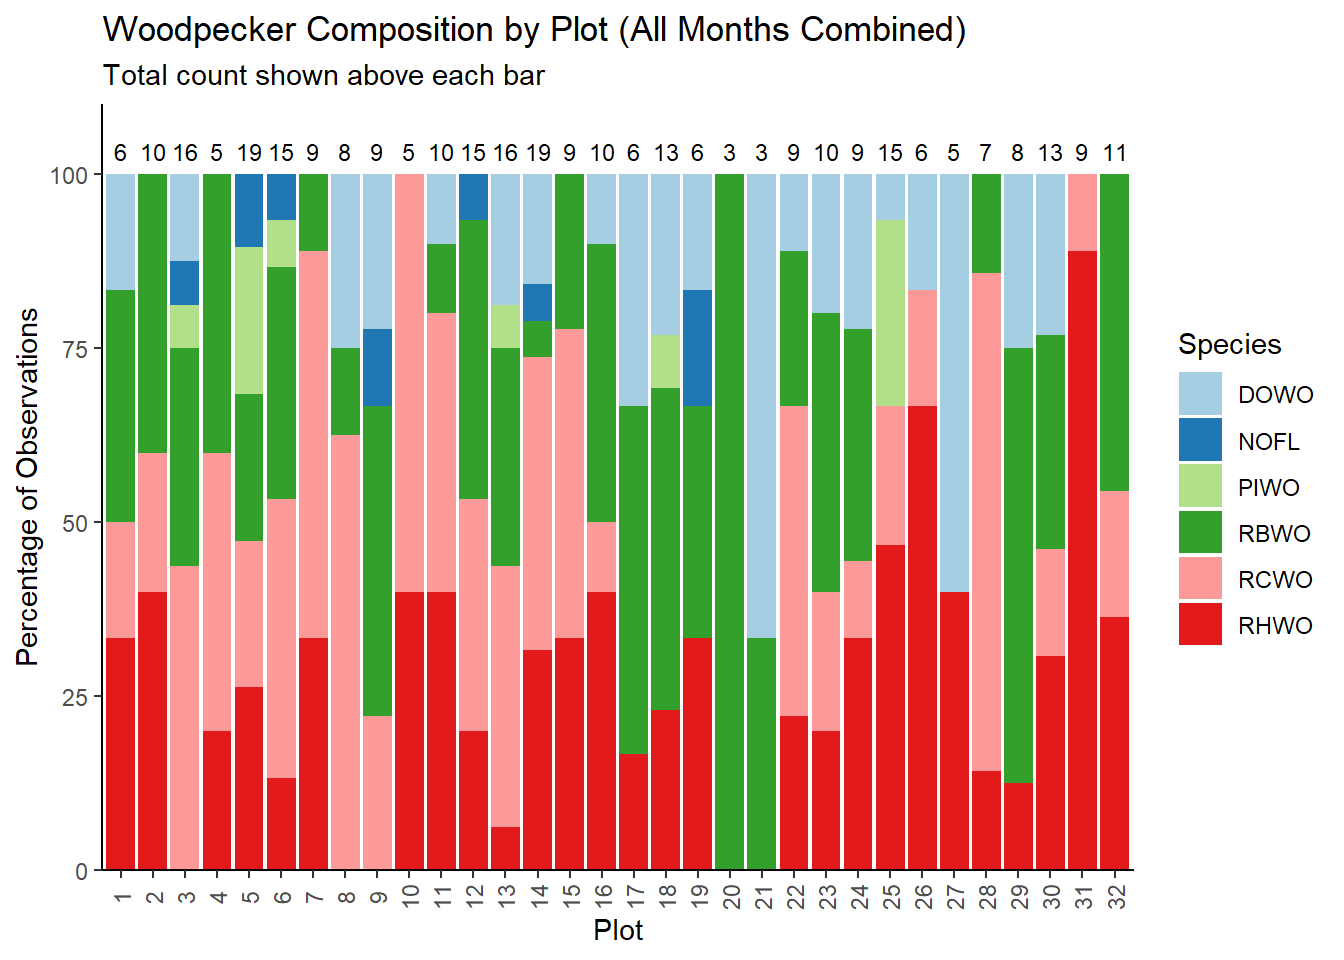
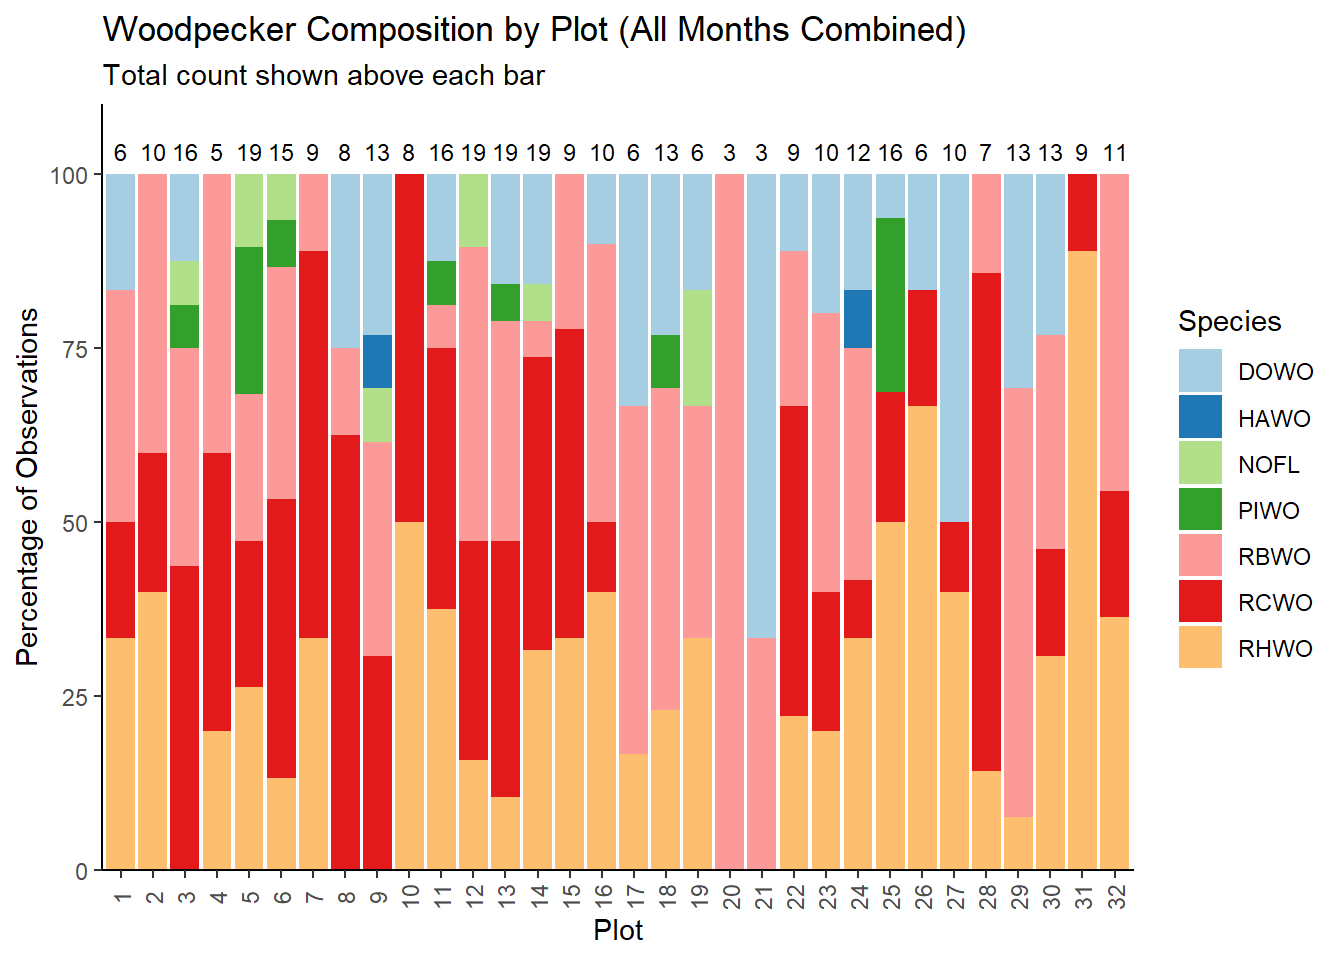
updated obs data

diff --git a/docs/woodpecker_obs.html b/docs/woodpecker_obs.html
@@ -239,7 +239,7 @@ Table: May observations by species and plot
 <h1>June Observations</h1>
 <div class="cell">
 <div class="cell-output cell-output-stdout">
-<pre><code>Plot(s) with no observations include:  2, 4, 9, 11, 12, 17, 19, 20, 24, 28, 29, 31, 32</code></pre>
+<pre><code>Plot(s) with no observations include:  2, 4, 17, 19, 20, 28, 31, 32</code></pre>
 </div>
 </div>
 <div class="cell">
@@ -250,12 +250,13 @@ Table: June observations by species and plot
 
 |Species |  1|  2|  3|  4|  5|  6|  7|  8|  9| 10| 11| 12| 13| 14| 15| 16| 17| 18| 19| 20| 21| 22| 23| 24| 25| 26| 27| 28| 29| 30| 31| 32|
 |:-------|--:|--:|--:|--:|--:|--:|--:|--:|--:|--:|--:|--:|--:|--:|--:|--:|--:|--:|--:|--:|--:|--:|--:|--:|--:|--:|--:|--:|--:|--:|--:|--:|
-|DOWO    |  1|  0|  0|  0|  0|  0|  0|  0|  0|  0|  0|  0|  0|  1|  0|  1|  0|  2|  0|  0|  1|  0|  0|  0|  0|  0|  0|  0|  0|  0|  0|  0|
-|NOFL    |  0|  0|  0|  0|  1|  0|  0|  0|  0|  0|  0|  0|  0|  0|  0|  0|  0|  0|  0|  0|  0|  0|  0|  0|  0|  0|  0|  0|  0|  0|  0|  0|
-|PIWO    |  0|  0|  0|  0|  1|  0|  0|  0|  0|  0|  0|  0|  1|  0|  0|  0|  0|  0|  0|  0|  0|  0|  0|  0|  0|  0|  0|  0|  0|  0|  0|  0|
-|RBWO    |  0|  0|  2|  0|  0|  0|  0|  0|  0|  0|  0|  0|  0|  0|  0|  1|  0|  2|  0|  0|  1|  0|  3|  0|  0|  0|  0|  0|  0|  0|  0|  0|
-|RCWO    |  1|  0|  1|  0|  1|  1|  0|  1|  0|  1|  0|  0|  1|  0|  0|  0|  0|  0|  0|  0|  0|  0|  0|  0|  0|  1|  0|  0|  0|  0|  0|  0|
-|RHWO    |  0|  0|  0|  0|  2|  1|  1|  0|  0|  1|  0|  0|  0|  2|  1|  1|  0|  3|  0|  0|  0|  1|  1|  0|  1|  0|  1|  0|  0|  1|  0|  0|</code></pre>
+|DOWO    |  1|  0|  0|  0|  0|  0|  0|  0|  1|  0|  1|  0|  0|  1|  0|  1|  0|  2|  0|  0|  1|  0|  0|  0|  0|  0|  2|  0|  2|  0|  0|  0|
+|HAWO    |  0|  0|  0|  0|  0|  0|  0|  0|  1|  0|  0|  0|  0|  0|  0|  0|  0|  0|  0|  0|  0|  0|  0|  1|  0|  0|  0|  0|  0|  0|  0|  0|
+|NOFL    |  0|  0|  0|  0|  1|  0|  0|  0|  0|  0|  0|  1|  0|  0|  0|  0|  0|  0|  0|  0|  0|  0|  0|  0|  0|  0|  0|  0|  0|  0|  0|  0|
+|PIWO    |  0|  0|  0|  0|  1|  0|  0|  0|  0|  0|  1|  0|  1|  0|  0|  0|  0|  0|  0|  0|  0|  0|  0|  0|  0|  0|  0|  0|  0|  0|  0|  0|
+|RBWO    |  0|  0|  2|  0|  0|  0|  0|  0|  0|  0|  0|  2|  1|  0|  0|  1|  0|  2|  0|  0|  1|  0|  3|  1|  0|  0|  0|  0|  3|  0|  0|  0|
+|RCWO    |  1|  0|  1|  0|  1|  1|  0|  1|  2|  2|  2|  1|  2|  0|  0|  0|  0|  0|  0|  0|  0|  0|  0|  0|  0|  1|  1|  0|  0|  0|  0|  0|
+|RHWO    |  0|  0|  0|  0|  2|  1|  1|  0|  0|  3|  2|  0|  1|  2|  1|  1|  0|  3|  0|  0|  0|  1|  1|  1|  2|  0|  3|  0|  0|  1|  0|  0|</code></pre>
 </div>
 </div>
 <section id="coming-soon" class="level2">
